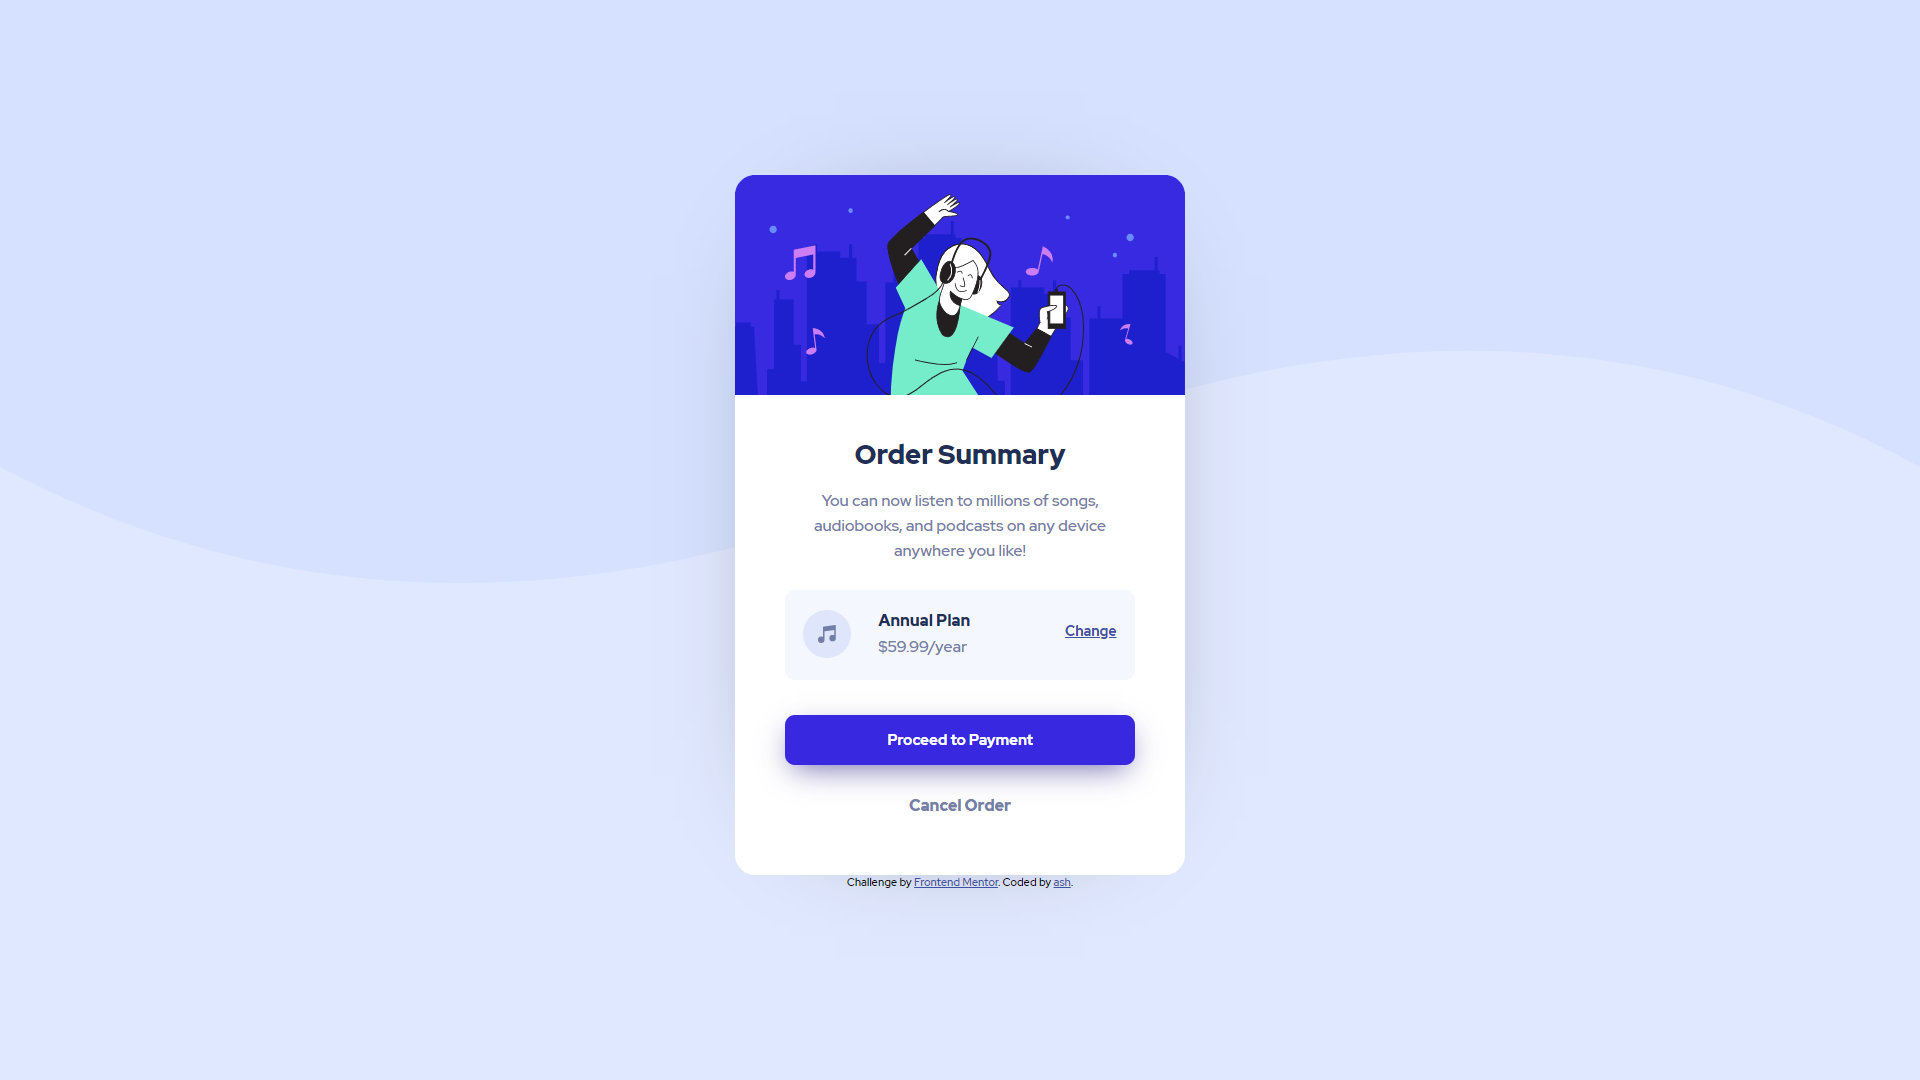
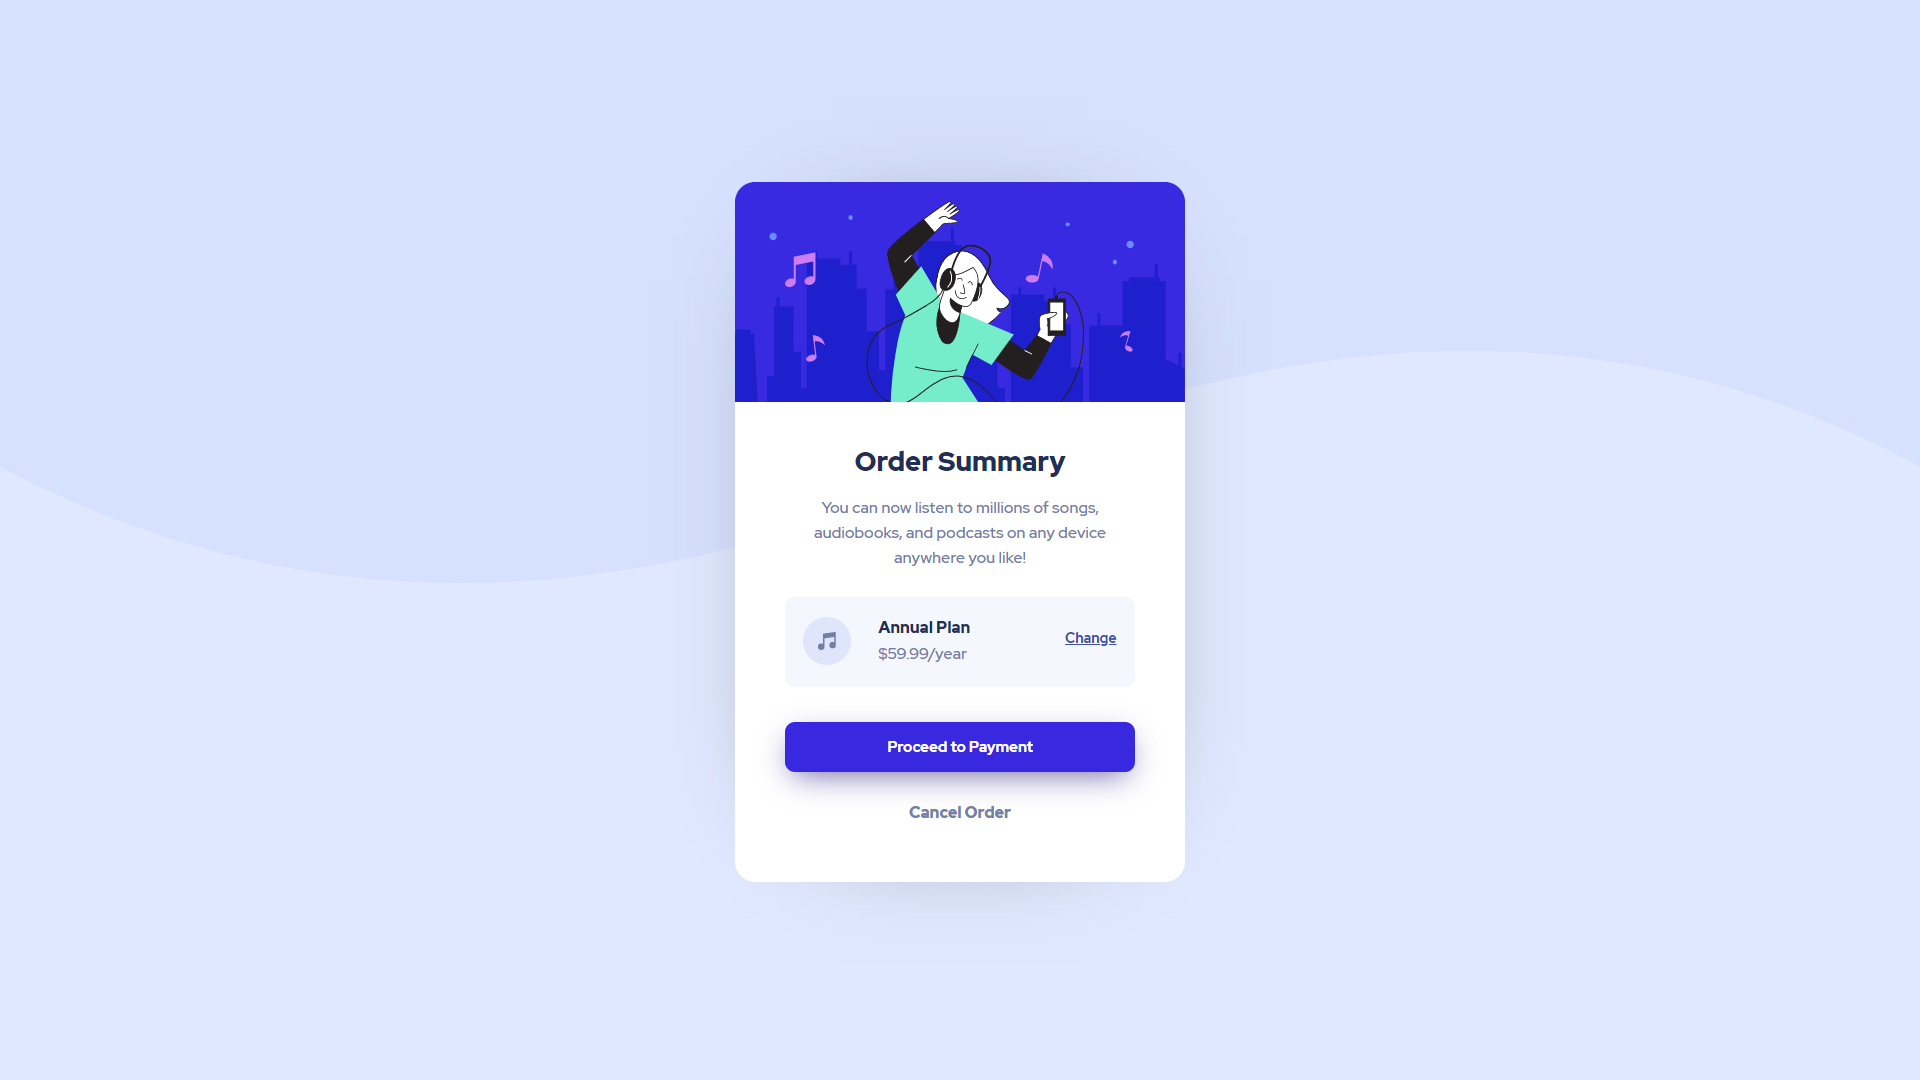
added mobile view screenshot

diff --git a/css/main.css b/css/main.css
@@ -134,8 +134,43 @@ body{
 .attribution {
   font-size: 11px;
   text-align: center;
+  display: none;
 }
 .attribution a {
   color: hsl(228, 45%, 44%);
 }
  
+
+@media (max-width:375px){
+    body{
+        background-image: url(../images/pattern-background-mobile.svg);
+    }
+    .container{
+        width: 320px;
+        height: 550px;
+    }
+    .image {
+        height: 156.44px;
+    }
+    .image img{
+        width: 320px;
+    }
+
+    .main-summary{
+        font-size: 90%;
+        height: 150px;
+    }
+    .main-summary h1{
+        font-size: 22px;
+    }
+    .plan {
+        padding: 15px 25px;
+    }
+    .middle {
+        width: 120px;
+    }
+    .button {
+        height: 85px;
+        padding: 10px 25px;
+    }
+}

diff --git a/README.md b/README.md
@@ -27,6 +27,7 @@ Users should be able to:
 ### Screenshot
 
 ![desktop view](./screenshots/desktop-screenshot.PNG)
+![mobile view](./screenshots/mobile-screenshot.PNG)
 
 
 ### Built with
